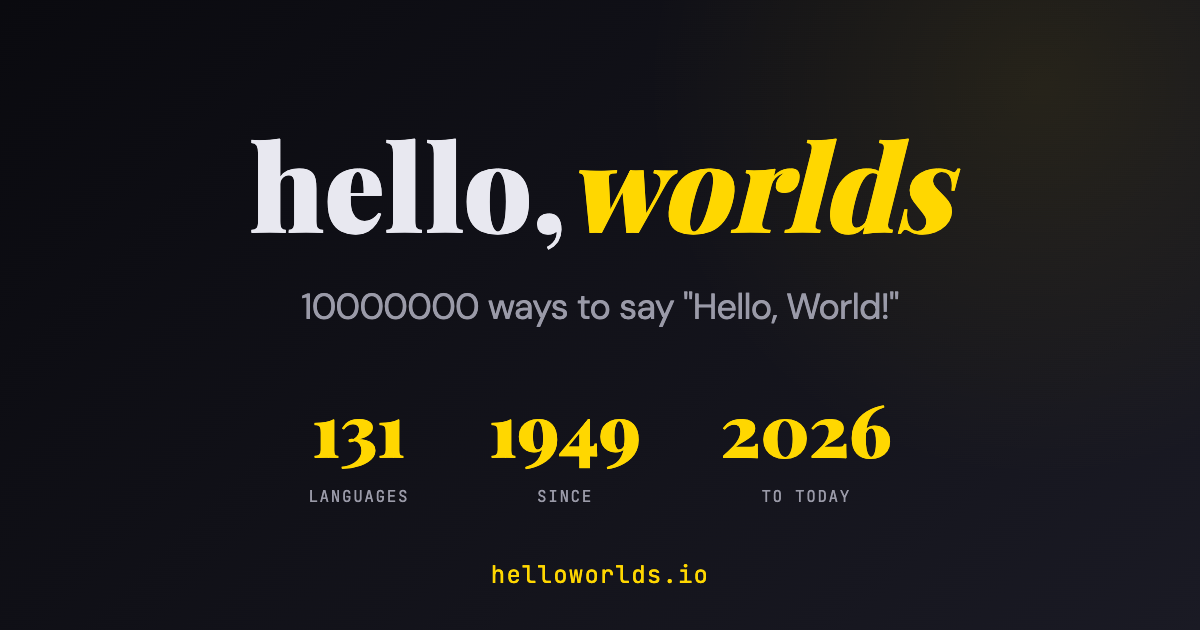
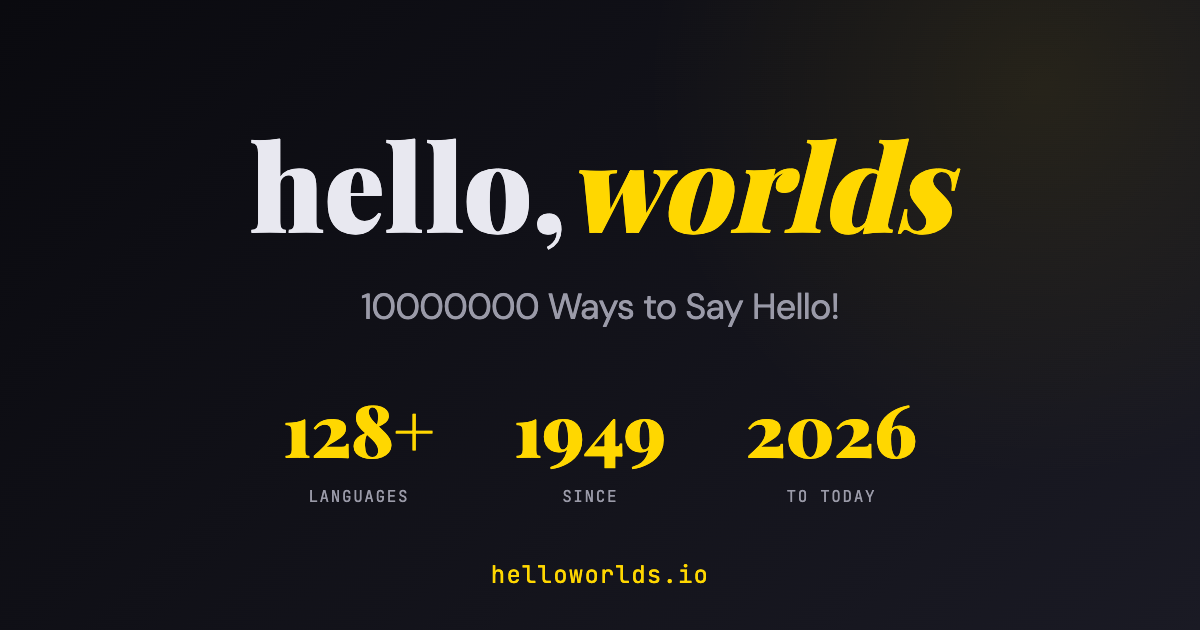
Update branding and language count to 128+
OG Preview Changes:
- Changed tagline to "10000000 Ways to Say Hello!" (properly capitalized)
- Updated language count from 131 to 128+ on OG image
- Updated OG title: "helloworlds.io - 10000000 Ways to Say Hello!"

Main Site Changes:
- Updated hero stats counter to display "128+" instead of 131
- Modified animateCounter() to support optional "+" suffix via data-show-plus attribute
- Updated all meta descriptions to reference 128+ languages

Regenerated og-image.png with new branding and count.

diff --git a/index.html b/index.html
@@ -6,8 +6,8 @@
     <title>helloworlds.io - 10000000 Ways to Say Hello</title>
 
     <!-- Open Graph Meta Tags (Instagram, TikTok, LinkedIn, WhatsApp) -->
-    <meta property="og:title" content="helloworlds.io - 131 Ways to Say Hello">
-    <meta property="og:description" content="A beautiful, curated collection of 'Hello, World!' implementations across 131 programming languages. Celebrating the universal tradition of every developer's first program.">
+    <meta property="og:title" content="helloworlds.io - 10000000 Ways to Say Hello!">
+    <meta property="og:description" content="A beautiful, curated collection of 'Hello, World!' implementations across 128+ programming languages. Celebrating the universal tradition of every developer's first program.">
     <meta property="og:type" content="website">
     <meta property="og:url" content="https://helloworlds.io/">
     <meta property="og:site_name" content="helloworlds.io">
@@ -17,12 +17,12 @@
 
     <!-- Twitter/X Card Meta Tags -->
     <meta name="twitter:card" content="summary_large_image">
-    <meta name="twitter:title" content="helloworlds.io - 131 Ways to Say Hello">
-    <meta name="twitter:description" content="A beautiful collection of 'Hello, World!' implementations across 131 programming languages spanning 75 years (1949-2024).">
+    <meta name="twitter:title" content="helloworlds.io - 10000000 Ways to Say Hello!">
+    <meta name="twitter:description" content="A beautiful collection of 'Hello, World!' implementations across 128+ programming languages spanning 75 years (1949-2024).">
     <meta name="twitter:image" content="https://helloworlds.io/og-image.png">
 
     <!-- Additional Meta Tags -->
-    <meta name="description" content="Explore Hello World programs in 131 programming languages. A curated gallery celebrating the tradition of every developer's first program, from Assembly (1949) to Bend (2024).">
+    <meta name="description" content="Explore Hello World programs in 128+ programming languages. A curated gallery celebrating the tradition of every developer's first program, from Assembly (1949) to Bend (2024).">
     <meta name="keywords" content="hello world, programming languages, code examples, software development, coding, programming tutorial">
     <meta name="author" content="helloworlds.io">
 
@@ -68,7 +68,7 @@
             <p class="hero-subtitle">Every programming language's first whisper—collected, preserved, and celebrated.</p>
             <div class="hero-stats">
                 <div class="stat">
-                    <span class="stat-number" data-count="131">0</span>
+                    <span class="stat-number" data-count="128" data-show-plus="true">0</span>
                     <span class="stat-label">Languages</span>
                 </div>
                 <div class="stat-divider"></div>

diff --git a/script.js b/script.js
@@ -304,14 +304,15 @@ searchClear.addEventListener('click', () => {
 // Animated counter for stats
 function animateCounter(element) {
     const target = parseInt(element.dataset.count);
+    const showPlus = element.dataset.showPlus === 'true';
     const duration = 2000;
     const step = target / (duration / 16);
     let current = 0;
-    
+
     const timer = setInterval(() => {
         current += step;
         if (current >= target) {
-            element.textContent = target;
+            element.textContent = showPlus ? target + '+' : target;
             clearInterval(timer);
         } else {
             element.textContent = Math.floor(current);

diff --git a/og-preview-main.html b/og-preview-main.html
@@ -112,10 +112,10 @@
         <div class="logo">
             <span class="hello">hello,</span><span class="worlds">worlds</span>
         </div>
-        <p class="tagline">10000000 ways to say "Hello, World!"</p>
+        <p class="tagline">10000000 Ways to Say Hello!</p>
         <div class="stats">
             <div class="stat">
-                <span class="stat-number">131</span>
+                <span class="stat-number">128+</span>
                 <span class="stat-label">Languages</span>
             </div>
             <div class="stat">
